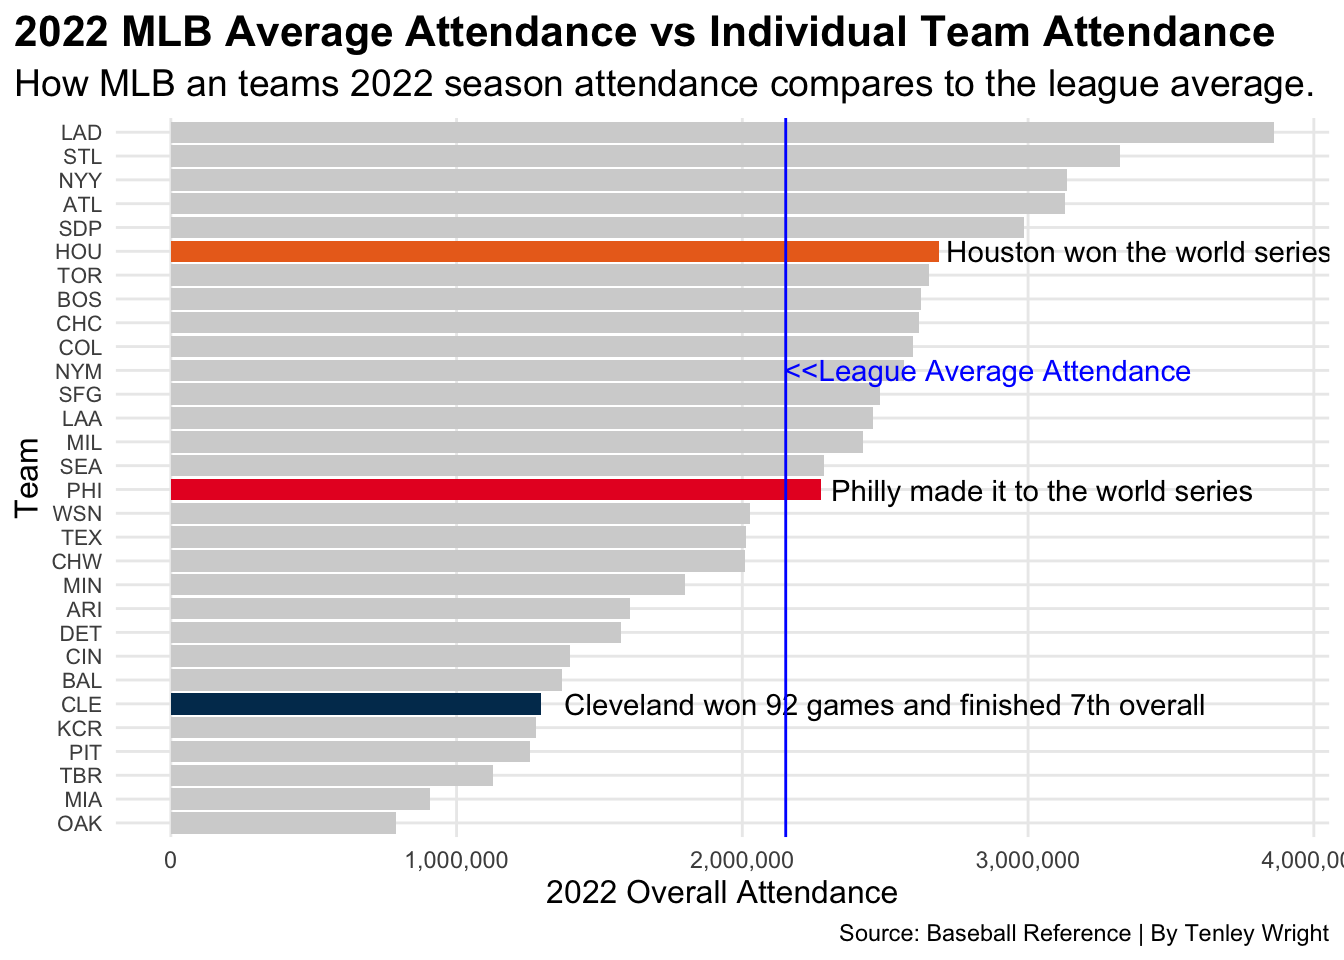
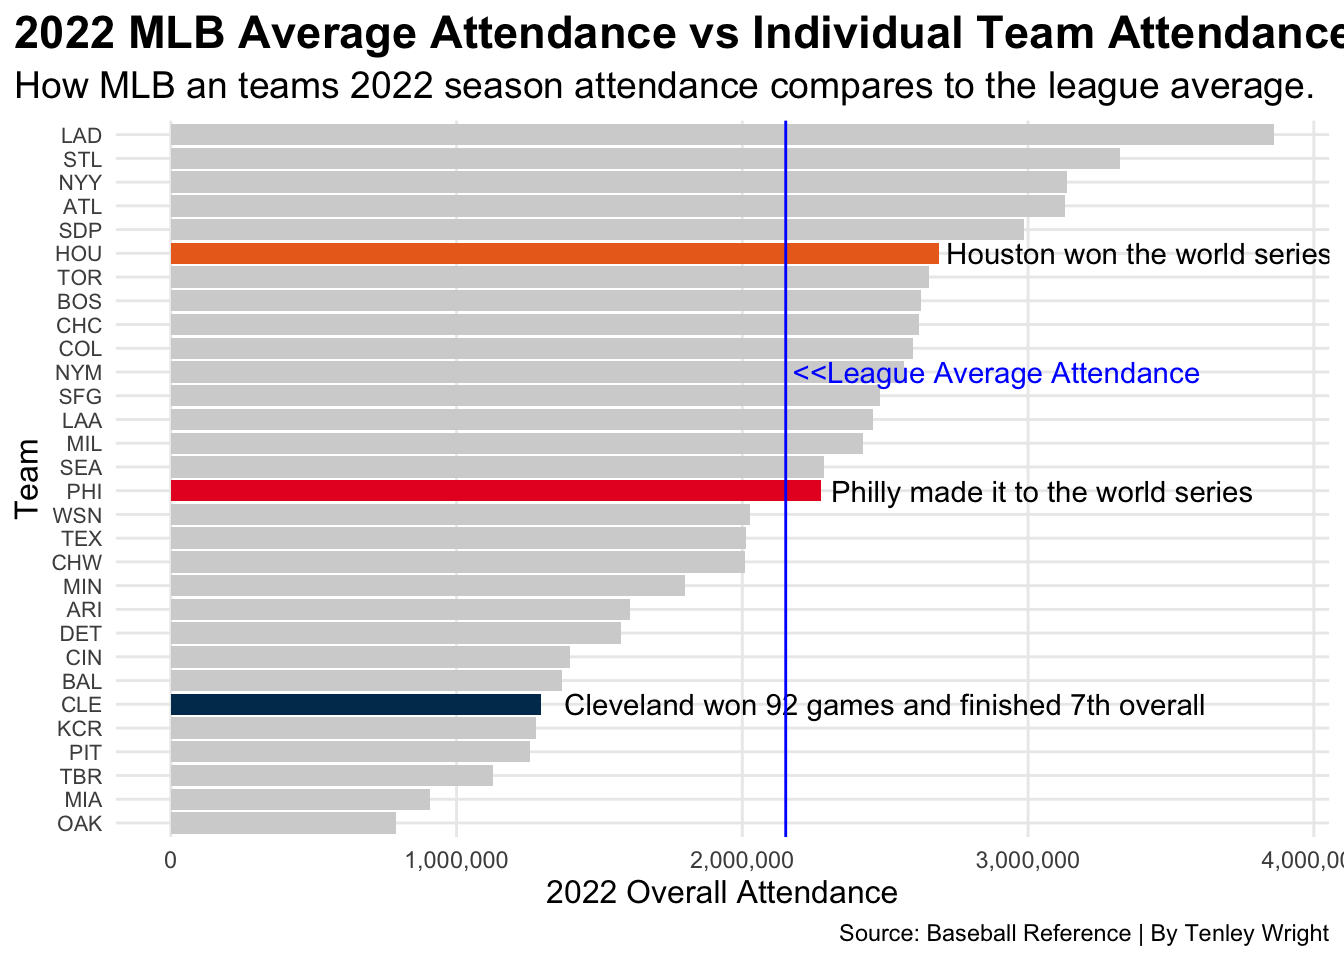
hopefully final update!!

diff --git a/posts/does-attendance-impact-performace-in-the-mlb/index.html b/posts/does-attendance-impact-performace-in-the-mlb/index.html
@@ -7,7 +7,7 @@
 <meta name="viewport" content="width=device-width, initial-scale=1.0, user-scalable=yes">
 
 <meta name="author" content="Tenley Wright">
-<meta name="dcterms.date" content="2022-04-16">
+<meta name="dcterms.date" content="2023-04-16">
 
 <title>Tenley Wright’s Blog - Does Attendance Impact Team Performance in the MLB</title>
 <style>
@@ -195,7 +195,7 @@ code span.wa { color: #60a0b0; font-weight: bold; font-style: italic; } /* Warni
       <div>
       <div class="quarto-title-meta-heading">Published</div>
       <div class="quarto-title-meta-contents">
-        <p class="date">April 16, 2022</p>
+        <p class="date">April 16, 2023</p>
       </div>
     </div>
     
@@ -213,7 +213,12 @@ code span.wa { color: #60a0b0; font-weight: bold; font-style: italic; } /* Warni
 
 
 
-<p>blog post goes here</p>
+<p><em>There are rich teams and there are poor teams.</em></p>
+<p><em>Then there’s 50 feet of crap.</em></p>
+<p><em>And then, finally, there’s the Oakland Athletics.</em></p>
+<p>Moneyball is one of my favorite movies, and one of the themes it explores is the key components to drawing fans to games, and how to keep them coming back for more. It’s been over twenty years since Billy Beane and his front office staff tried to dig their way out of the issues in Oakland and yet somehow, after all these years, the A’s still remain underneath that same 50 feet of crap.</p>
+<p>If you want to make a case for the A’s you could argue that perhaps it’s the fact that their comically oversized coliseum sits in one of the largest metropolitan areas in the country, yet one that is home to two baseball teams, making it the lowest population supporting two teams. However, even if you split the entire Bay Area into two halves, you still end up with a larger market than Pittsburgh, Tampa and KC.</p>
+<p>So, is there a connection between ballpark attendance and a team’s performance? Does a winning team draw larger crowds? Can a packed house fuel a successful season? To answer that, we’ll first need to explore how each team compares to the league average attendance, as well as each other.</p>
 <div class="cell">
 <details>
 <summary>Code</summary>
@@ -283,7 +288,7 @@ code span.wa { color: #60a0b0; font-weight: bold; font-style: italic; } /* Warni
 <span id="cb1-64"><a href="#cb1-64" aria-hidden="true" tabindex="-1"></a>  <span class="fu">geom_text</span>(<span class="fu">aes</span>(<span class="at">x=</span><span class="dv">25</span>, <span class="at">y=</span><span class="dv">3390000</span>, <span class="at">label=</span><span class="st">"Houston won the world series"</span>), <span class="at">color=</span><span class="st">"black"</span>) <span class="sc">+</span></span>
 <span id="cb1-65"><a href="#cb1-65" aria-hidden="true" tabindex="-1"></a>  <span class="fu">geom_text</span>(<span class="fu">aes</span>(<span class="at">x=</span><span class="dv">15</span>, <span class="at">y=</span><span class="dv">3050000</span>, <span class="at">label=</span><span class="st">"Philly made it to the world series"</span>), <span class="at">color=</span><span class="st">"black"</span>) <span class="sc">+</span></span>
 <span id="cb1-66"><a href="#cb1-66" aria-hidden="true" tabindex="-1"></a>  <span class="fu">geom_text</span>(<span class="fu">aes</span>(<span class="at">x=</span><span class="dv">6</span>, <span class="at">y=</span><span class="dv">2500000</span>, <span class="at">label=</span><span class="st">"Cleveland won 92 games and finished 7th overall"</span>), <span class="at">color=</span><span class="st">"black"</span>) <span class="sc">+</span></span>
-<span id="cb1-67"><a href="#cb1-67" aria-hidden="true" tabindex="-1"></a>  <span class="fu">geom_text</span>(<span class="fu">aes</span>(<span class="at">x=</span><span class="st">"NYM"</span>, <span class="at">y=</span><span class="dv">2860000</span>, <span class="at">label=</span><span class="st">"&lt;&lt;League Average Attendance"</span>), <span class="at">color=</span><span class="st">"blue"</span>) <span class="sc">+</span></span>
+<span id="cb1-67"><a href="#cb1-67" aria-hidden="true" tabindex="-1"></a>  <span class="fu">geom_text</span>(<span class="fu">aes</span>(<span class="at">x=</span><span class="st">"NYM"</span>, <span class="at">y=</span><span class="dv">2890000</span>, <span class="at">label=</span><span class="st">"&lt;&lt;League Average Attendance"</span>), <span class="at">color=</span><span class="st">"blue"</span>) <span class="sc">+</span></span>
 <span id="cb1-68"><a href="#cb1-68" aria-hidden="true" tabindex="-1"></a>  <span class="fu">geom_hline</span>(<span class="at">yintercept =</span> <span class="dv">2151889</span>, <span class="at">color=</span><span class="st">"blue"</span>)<span class="sc">+</span> </span>
 <span id="cb1-69"><a href="#cb1-69" aria-hidden="true" tabindex="-1"></a>  <span class="fu">scale_y_continuous</span>(<span class="at">labels=</span>comma)<span class="sc">+</span></span>
 <span id="cb1-70"><a href="#cb1-70" aria-hidden="true" tabindex="-1"></a>  <span class="fu">coord_flip</span>()<span class="sc">+</span></span>
@@ -296,7 +301,7 @@ code span.wa { color: #60a0b0; font-weight: bold; font-style: italic; } /* Warni
 <span id="cb1-77"><a href="#cb1-77" aria-hidden="true" tabindex="-1"></a>    ) <span class="sc">+</span></span>
 <span id="cb1-78"><a href="#cb1-78" aria-hidden="true" tabindex="-1"></a>  <span class="fu">theme_minimal</span>() <span class="sc">+</span> </span>
 <span id="cb1-79"><a href="#cb1-79" aria-hidden="true" tabindex="-1"></a>  <span class="fu">theme</span>(</span>
-<span id="cb1-80"><a href="#cb1-80" aria-hidden="true" tabindex="-1"></a>    <span class="at">plot.title =</span> <span class="fu">element_text</span>(<span class="at">size =</span> <span class="dv">16</span>, <span class="at">face =</span> <span class="st">"bold"</span>),</span>
+<span id="cb1-80"><a href="#cb1-80" aria-hidden="true" tabindex="-1"></a>    <span class="at">plot.title =</span> <span class="fu">element_text</span>(<span class="at">size =</span> <span class="dv">17</span>, <span class="at">face =</span> <span class="st">"bold"</span>),</span>
 <span id="cb1-81"><a href="#cb1-81" aria-hidden="true" tabindex="-1"></a>    <span class="at">axis.title =</span> <span class="fu">element_text</span>(<span class="at">size =</span> <span class="dv">12</span>), </span>
 <span id="cb1-82"><a href="#cb1-82" aria-hidden="true" tabindex="-1"></a>    <span class="at">axis.text.y=</span><span class="fu">element_text</span>(<span class="at">size =</span> <span class="dv">8</span>),</span>
 <span id="cb1-83"><a href="#cb1-83" aria-hidden="true" tabindex="-1"></a>    <span class="at">plot.subtitle =</span> <span class="fu">element_text</span>(<span class="at">size=</span><span class="dv">14</span>), </span>
@@ -308,7 +313,9 @@ code span.wa { color: #60a0b0; font-weight: bold; font-style: italic; } /* Warni
 <p><img src="index_files/figure-html/unnamed-chunk-1-1.png" class="img-fluid" width="672"></p>
 </div>
 </div>
-<p>more blog post here</p>
+<p>I wanted to explore the correlation between attendance and wins. It would appear that there are two opposite ends of the spectrum. On one hand, you have the aforementioned A’s, who in 2022 had the lowest attendance in the MLB and fittingly came dead last in the standings. On the other hand, you get the Los Angeles Dodgers, who had the highest attendance and (you guessed it) the most wins.</p>
+<p>But what’s between those two extremes?</p>
+<p>What’s interesting, is that between these two ends of the spectrum, there is little to no evidence of a correlation between wins and attendance. Sure, Houston had an above average attendance and even went on to win the World Series, but the Phillies were right there with them till the end with a middle of the road average attendance. Even further, Cleveland was sixth to last in Attendance, yet finished ranked 7th in 2022 with 92 wins.</p>
 <div class="cell">
 <details>
 <summary>Code</summary>
@@ -399,7 +406,7 @@ code span.wa { color: #60a0b0; font-weight: bold; font-style: italic; } /* Warni
 <p><img src="index_files/figure-html/unnamed-chunk-2-1.png" class="img-fluid" width="672"></p>
 </div>
 </div>
-<p>more blog post here</p>
+<p>There are a number of factors that drive attendance at MLB ballparks. And the same is true for winning. I took my question one step further and tried to find a common theme between the teams that had high attendance and a high win percentage. Same for the teams on the low side of things. That common theme? Payroll.</p>
 <div class="cell">
 <details>
 <summary>Code</summary>
@@ -466,7 +473,7 @@ code span.wa { color: #60a0b0; font-weight: bold; font-style: italic; } /* Warni
 <span id="cb3-61"><a href="#cb3-61" aria-hidden="true" tabindex="-1"></a>     <span class="at">alpha=</span>.<span class="dv">3</span>) <span class="sc">+</span> </span>
 <span id="cb3-62"><a href="#cb3-62" aria-hidden="true" tabindex="-1"></a>  <span class="fu">geom_text_repel</span>(</span>
 <span id="cb3-63"><a href="#cb3-63" aria-hidden="true" tabindex="-1"></a>  <span class="at">data=</span>HOU, </span>
-<span id="cb3-64"><a href="#cb3-64" aria-hidden="true" tabindex="-1"></a>    <span class="fu">aes</span>(<span class="at">x=</span><span class="st">`</span><span class="at">2022 Att</span><span class="st">`</span><span class="sc">-</span><span class="dv">500</span>, <span class="at">y=</span>W<span class="sc">+</span><span class="dv">2</span>, <span class="at">label=</span>Tm))<span class="sc">+</span></span>
+<span id="cb3-64"><a href="#cb3-64" aria-hidden="true" tabindex="-1"></a>    <span class="fu">aes</span>(<span class="at">x=</span><span class="st">`</span><span class="at">2022 Att</span><span class="st">`</span><span class="sc">-</span><span class="dv">5000</span>, <span class="at">y=</span>W<span class="sc">+</span><span class="dv">2</span>, <span class="at">label=</span>Tm))<span class="sc">+</span></span>
 <span id="cb3-65"><a href="#cb3-65" aria-hidden="true" tabindex="-1"></a>     <span class="fu">geom_point</span>(</span>
 <span id="cb3-66"><a href="#cb3-66" aria-hidden="true" tabindex="-1"></a>    <span class="at">data=</span>PHI, </span>
 <span id="cb3-67"><a href="#cb3-67" aria-hidden="true" tabindex="-1"></a>    <span class="fu">aes</span>(<span class="at">x=</span><span class="st">`</span><span class="at">2022 Att</span><span class="st">`</span>, <span class="at">y=</span>W, <span class="at">size=</span> <span class="st">`</span><span class="at">Est. Payroll</span><span class="st">`</span>),</span>
@@ -500,7 +507,7 @@ code span.wa { color: #60a0b0; font-weight: bold; font-style: italic; } /* Warni
 <span id="cb3-95"><a href="#cb3-95" aria-hidden="true" tabindex="-1"></a>    ) <span class="sc">+</span></span>
 <span id="cb3-96"><a href="#cb3-96" aria-hidden="true" tabindex="-1"></a>  <span class="fu">theme_minimal</span>() <span class="sc">+</span> </span>
 <span id="cb3-97"><a href="#cb3-97" aria-hidden="true" tabindex="-1"></a>  <span class="fu">theme</span>(</span>
-<span id="cb3-98"><a href="#cb3-98" aria-hidden="true" tabindex="-1"></a>    <span class="at">plot.title =</span> <span class="fu">element_text</span>(<span class="at">size =</span> <span class="dv">18</span>, <span class="at">face =</span> <span class="st">"bold"</span>),</span>
+<span id="cb3-98"><a href="#cb3-98" aria-hidden="true" tabindex="-1"></a>    <span class="at">plot.title =</span> <span class="fu">element_text</span>(<span class="at">size =</span> <span class="dv">19</span>, <span class="at">face =</span> <span class="st">"bold"</span>),</span>
 <span id="cb3-99"><a href="#cb3-99" aria-hidden="true" tabindex="-1"></a>    <span class="at">axis.title =</span> <span class="fu">element_text</span>(<span class="at">size =</span> <span class="dv">14</span>), </span>
 <span id="cb3-100"><a href="#cb3-100" aria-hidden="true" tabindex="-1"></a>    <span class="at">plot.subtitle =</span> <span class="fu">element_text</span>(<span class="at">size=</span><span class="dv">11</span>), </span>
 <span id="cb3-101"><a href="#cb3-101" aria-hidden="true" tabindex="-1"></a>    <span class="at">panel.grid.minor =</span> <span class="fu">element_blank</span>(),</span>
@@ -512,7 +519,8 @@ code span.wa { color: #60a0b0; font-weight: bold; font-style: italic; } /* Warni
 <p><img src="index_files/figure-html/unnamed-chunk-3-1.png" class="img-fluid" width="672"></p>
 </div>
 </div>
-<p>more blog post here</p>
+<p>Billy Beane may have known how to find the best bargain deal on a shortstop, but when it comes down to it, the big bucks are winning on both sides of the fence.</p>
+<p>It’s important to note, though, that correlation does not always equal causation. Just because there is a positive correlation between payroll and wins and attendance, it doesn’t necessarily mean that an increased payroll will automatically lead to more victories.</p>
 
 
 

diff --git a/index.html b/index.html
@@ -171,7 +171,7 @@ ul.task-list li input[type="checkbox"] {
 
 <div class="quarto-listing quarto-listing-container-default" id="listing-listing">
 <div class="list quarto-listing-default">
-<div class="quarto-post image-right" data-index="0" data-categories="MLB,Baseball,Attendance" data-listing-date-sort="1681621200000" data-listing-file-modified-sort="1681620622162" data-listing-reading-time-sort="9.34">
+<div class="quarto-post image-right" data-index="0" data-categories="MLB,Baseball,Attendance" data-listing-date-sort="1681621200000" data-listing-file-modified-sort="1681621383617" data-listing-reading-time-sort="9.335">
 <div class="thumbnail">
 <p><a href="./posts/does-attendance-impact-performace-in-the-mlb/index.html"> <img src="./posts/does-attendance-impact-performace-in-the-mlb/image.png" class="thumnail-image"> </a></p>
 </div>
@@ -197,7 +197,7 @@ Attendance
 </div>
 <a href="./posts/does-attendance-impact-performace-in-the-mlb/index.html">
 <div class="listing-description">
-blog post goes here
+<em>There are rich teams and there are poor teams.</em>
 </div>
 </a>
 </div>
